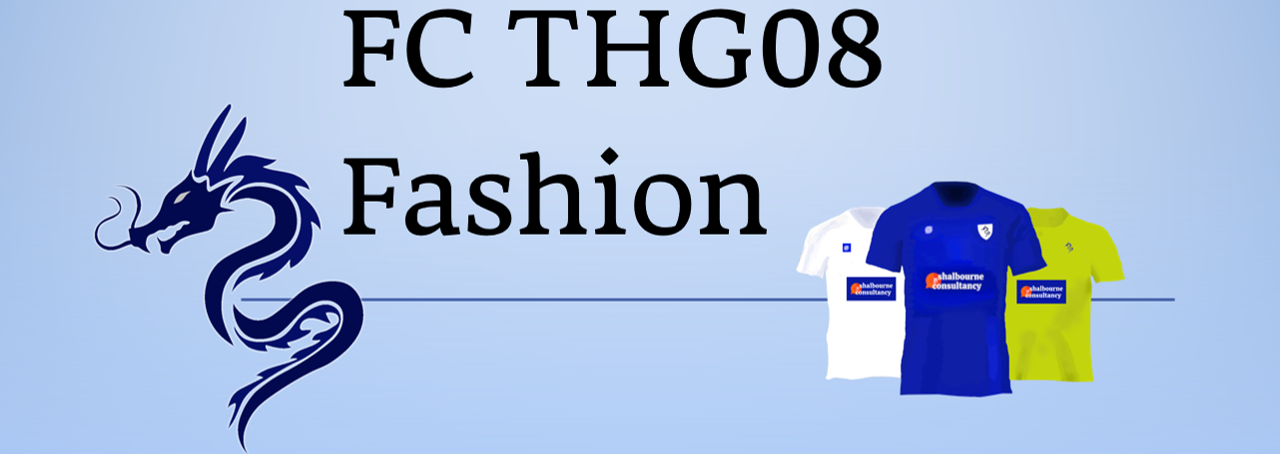
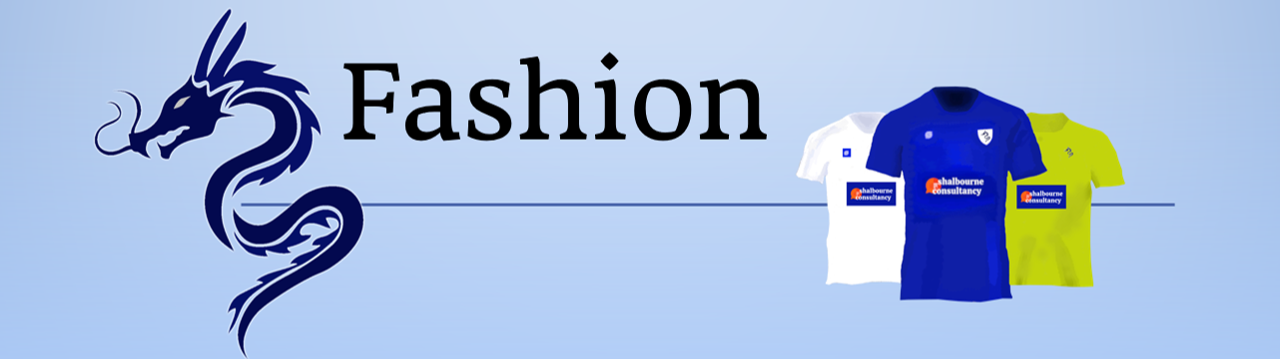
sorting out content for cards and the carousel height on wider screens

Changed region(s): [[0.0625, 0.0, 0.9375, 0.9499], [0.625, 0.7047, 0.875, 0.8886]]

diff --git a/frontend/src/components/Latest/News/News.js b/frontend/src/components/Latest/News/News.js
@@ -18,7 +18,7 @@ const News = (props) => {
       description:
         "Addressing the fixture with confidence and respect for the opposition, the manager highlighted the significance of preparation. 'Every match presents a unique set of challenges,' he noted, 'This upcoming fixture is no different. Our focus is on understanding our opponent's strengths and weaknesses, and adjusting our tactics accordingly.'",
       topic: "Team",
-      date: "3 days ago",
+      date: "7 days ago",
     },
     {
       image: match,
@@ -26,6 +26,8 @@ const News = (props) => {
       heading: "Win over Crimson Pangmere",
       description:
         "FC THG 04 picked up three points in their first home game of the new season defeating Crimson Pangmere FC 3-0 on Saturday night. Thomas Mahrez (16’), (75’) and  Ishmael Baptiste (90+2’) got the goals for FC THG 08. The visitors finished the game with ten men after defender Mehmet Kaya was red carded.",
+      topic: "Team",
+      date: "8 days ago",
     },
     {
       image: trainingTop,
@@ -33,6 +35,8 @@ const News = (props) => {
       heading: "State of the Art Academy Facility",
       description:
         "Step into the future of football excellence at our state-of-the-art Academy Facility. This cutting-edge complex is a harmonious fusion of innovation and technology, designed to nurture raw talent of the furture from youth training to the first team.",
+      topic: "Club",
+      date: "11 days ago",
     },
     {
       image: shirtSale,
@@ -40,6 +44,8 @@ const News = (props) => {
       heading: "Purchase New Seasons Kit here",
       description:
         "As the anticipation builds for the upcoming season, we are thrilled to present the latest football kit for our beloved team, FC THG 08. A captivating blend of tradition, innovation, and the spirit of competition, this kit encapsulates the essence of who we are and what we strive to achieve on the field.",
+      topic: "Club",
+      date: "13 days ago",
     },
     {
       image: corporatePartner,
@@ -47,6 +53,8 @@ const News = (props) => {
       heading: "New Corporate partner e-Payel",
       description:
         "Introducing e-Payel Payments, the dynamic and innovative corporate partner that has joined forces with our club. With a shared passion for excellence and a commitment to pushing boundaries, this collaboration marks a significant milestone in the journey towards success both on and off the field.",
+      topic: "Club",
+      date: "20 days ago",
     },
     {
       image: mural,
@@ -54,6 +62,8 @@ const News = (props) => {
       heading: "Culture in spotlight: Graffiti",
       description:
         "Fans of FC THG 08 are known for their strong sense of pride and loyalty to the club, which is often reflected in the graffiti they create around the stadium and throughout the city. These fans believe that graffiti is a powerful way to express their love for the club and to connect with other fans.",
+      topic: "Club",
+      date: "25 days ago",
     },
   ];
 
@@ -108,6 +118,8 @@ const News = (props) => {
           alt={NewsCards[5].alt}
           heading={NewsCards[5].heading}
           description={NewsCards[5].description}
+          topic={NewsCards[5].topic}
+          date={NewsCards[5].date}
         />
       </div>
     </section>

diff --git a/frontend/src/components/Shop/Layout/ShopHeader.js b/frontend/src/components/Shop/Layout/ShopHeader.js
@@ -10,11 +10,13 @@ const ShopHeader = (props) => {
         <h4 className="shop-header__title heading-4--light">Shop Items</h4>
         <ShopHeaderCartButton />
       </section>
-      <img
-        className="shop-header__image"
-        src={shopBanner}
-        alt="shopBannerImage"
-      />
+      <div className="shop-header__banner">
+        <img
+          className="shop-header__image"
+          src={shopBanner}
+          alt="shopBannerImage"
+        />
+      </div>
     </div>
   );
 };

diff --git a/frontend/src/pages/whiteNavPages/Home.scss b/frontend/src/pages/whiteNavPages/Home.scss
@@ -1,7 +1,7 @@
 .home-container {
   display: grid;
   /* comments for the grid-template-rows */
-  grid-template-rows: 60vh min-content min-content;
+  grid-template-rows: 50rem min-content min-content;
   grid-template-columns:
     [full-start] 10vw [tram-start] minmax(6rem, 1fr) [center-start] repeat(
       8,

diff --git a/frontend/src/components/Shop/Layout/ShopHeader.scss b/frontend/src/components/Shop/Layout/ShopHeader.scss
@@ -22,9 +22,12 @@
       font-size: 2rem;
     }
   }
+  &__banner {
+    display: flex;
+  }
   &__image {
     grid-column: tram-start / tram-end;
-    width: 100%;
+    width: 60vw;
     @media screen and (max-width: 94em) {
       grid-column: full-start / full-end;
     }

diff --git a/frontend/src/components/Shop/UI/ShopItem.scss b/frontend/src/components/Shop/UI/ShopItem.scss
@@ -1,4 +1,4 @@
-.shhop-item {
+.shop-item {
   display: flex;
   justify-content: space-between;
   margin: 1rem;
